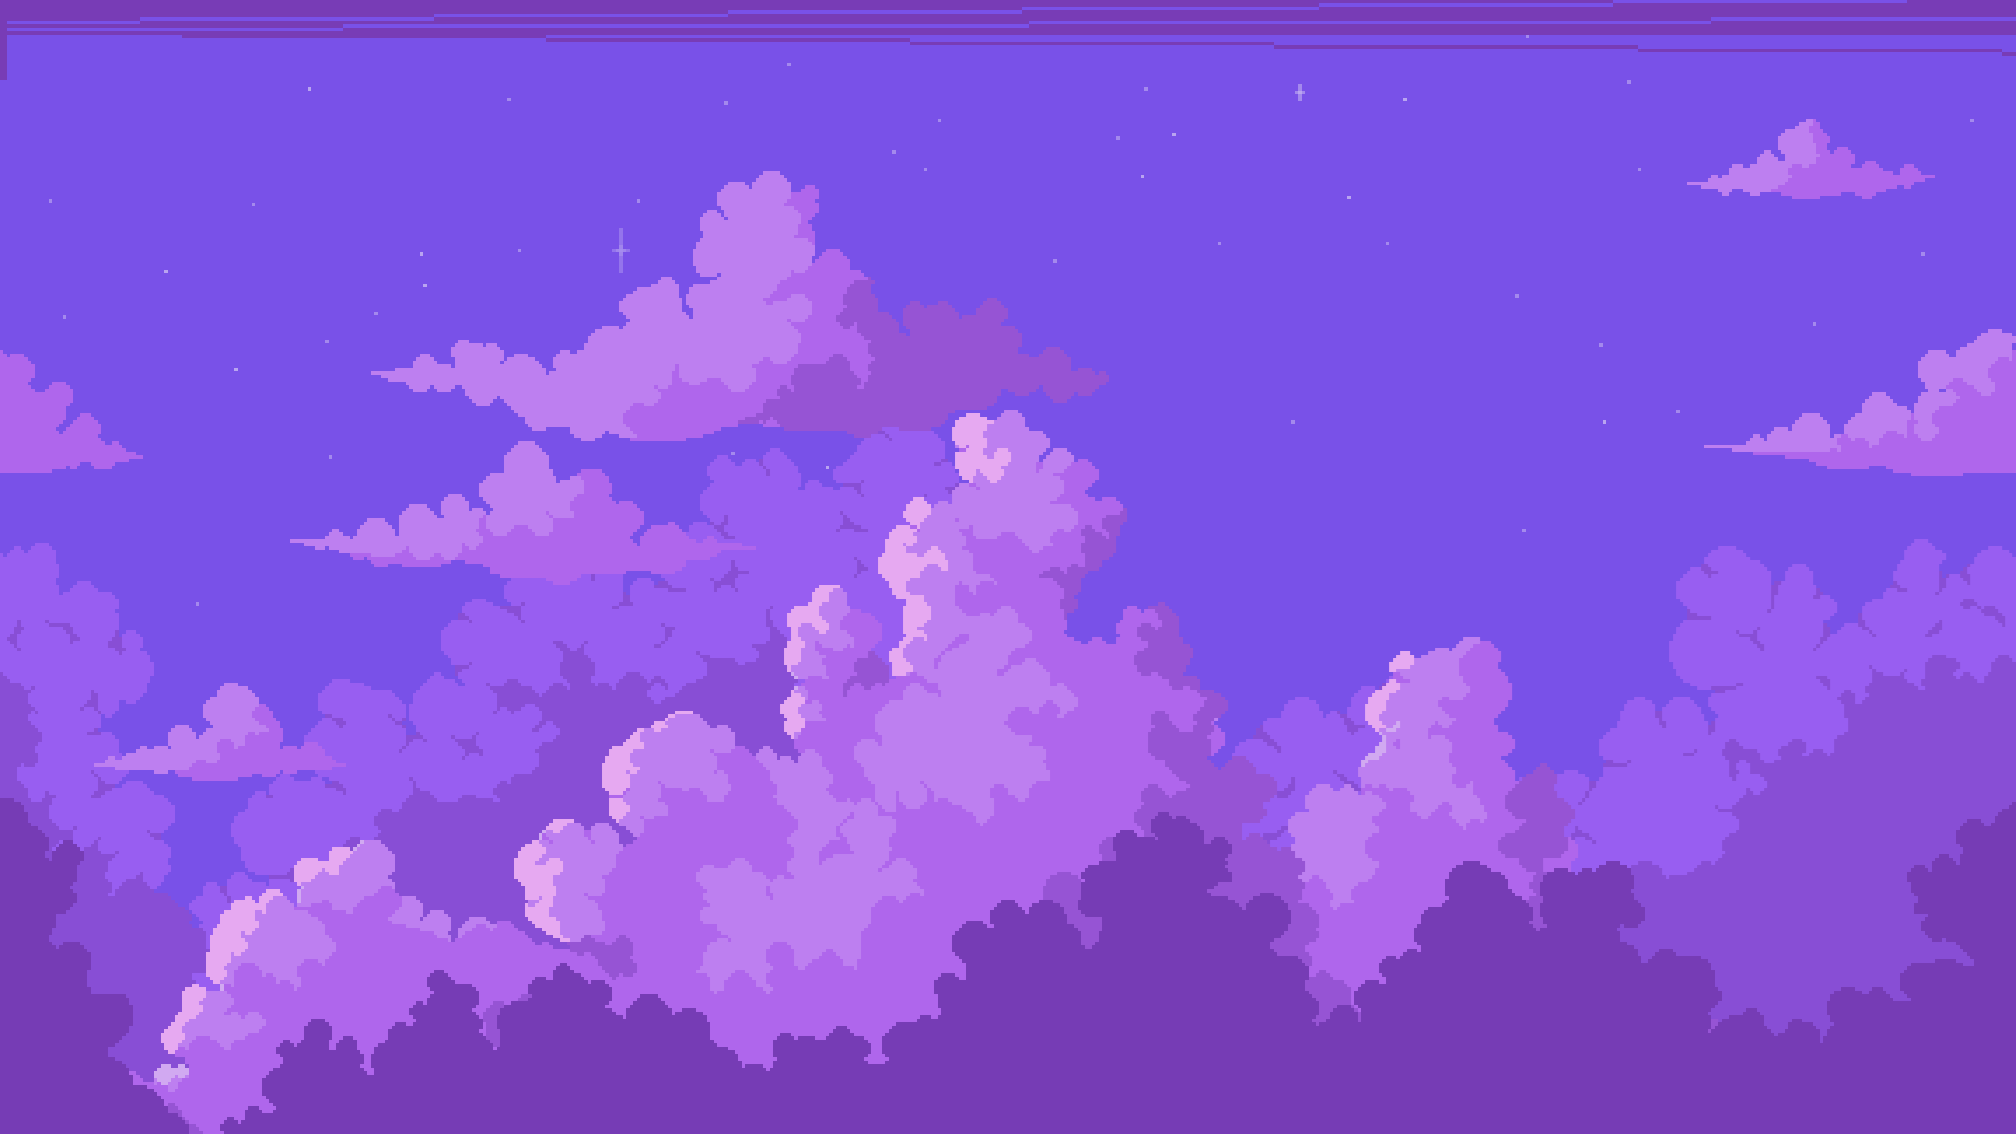
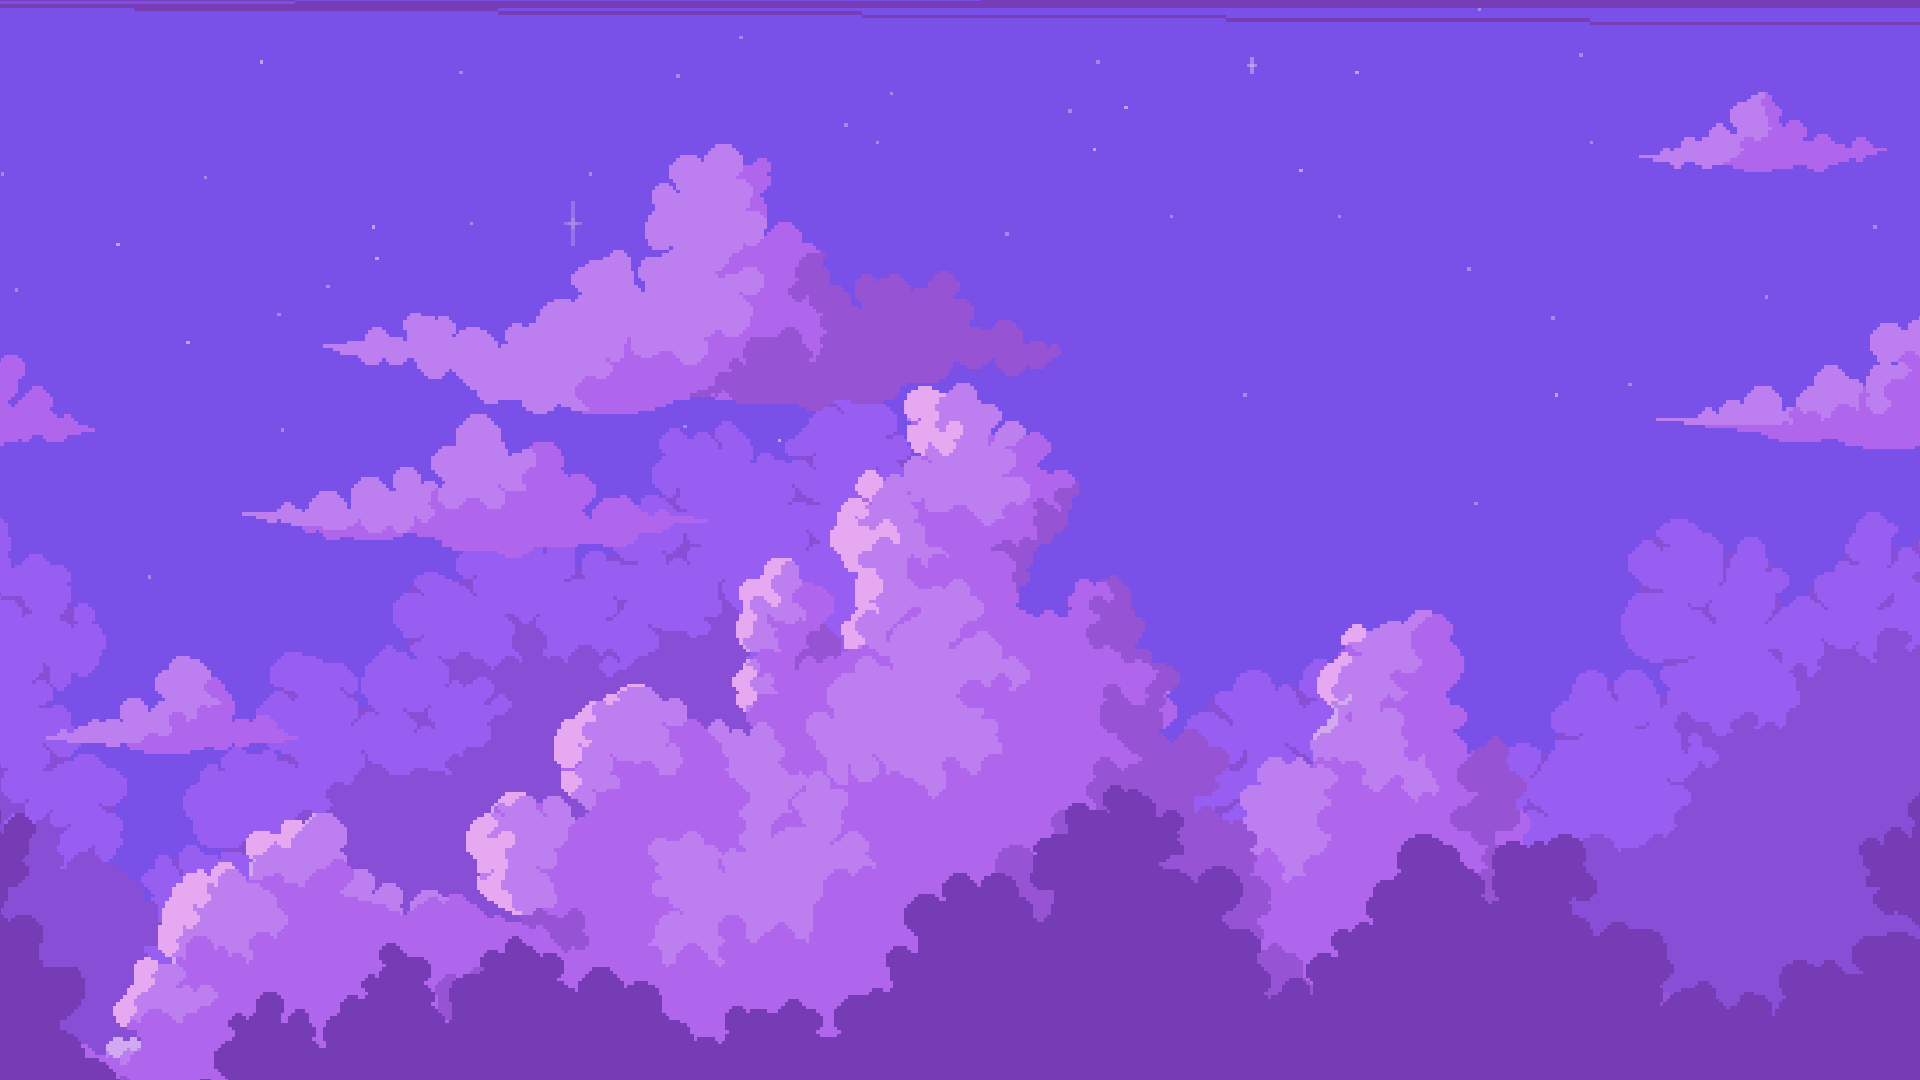
[Add]Death Animation
デス時に表示するプレイヤー画像を変更
ストーリーは接地かつ敵の索敵範囲にいない時に再生するよう変更
リスポーン時、ステージ遷移時に待機時間を追加
その他コードの整理

diff --git a/Scene/SceneManager.cpp b/Scene/SceneManager.cpp
@@ -1,11 +1,11 @@
 #include <DxLib.h>
-#include "SceneManager.h"
-#include "SceneBase.h"
 #include "../Sound/SoundManager.h"
+#include "SceneBase.h"
 #include "SceneTitle.h"
 #include "SceneMain.h"
 #include "SceneClear.h"
 #include "SceneGameover.h"
+#include "SceneManager.h"
 
 
 namespace
@@ -21,11 +21,6 @@ SceneManager::SceneManager() :
 	m_scene_state = SceneState::Title;
 
 	m_p_sound_manager = std::make_shared<SoundManager>();
-}
-
-SceneManager::~SceneManager()
-{
-	
 }
 
 void SceneManager::Init()
@@ -67,10 +62,7 @@ void SceneManager::Update(GameSetting& game_setting)
 					break;
 				}
 				}
-				//std::unique_ptr<SceneMain> p_scene_main = std::make_unique<SceneMain>();
-				//ChangeScene(std::move(p_scene_main));
-				//m_scene_state = SceneState::Play;
-				//m_wait_count = 0.0f;
+
 				break;
 			}
 			case SceneState::Play:
